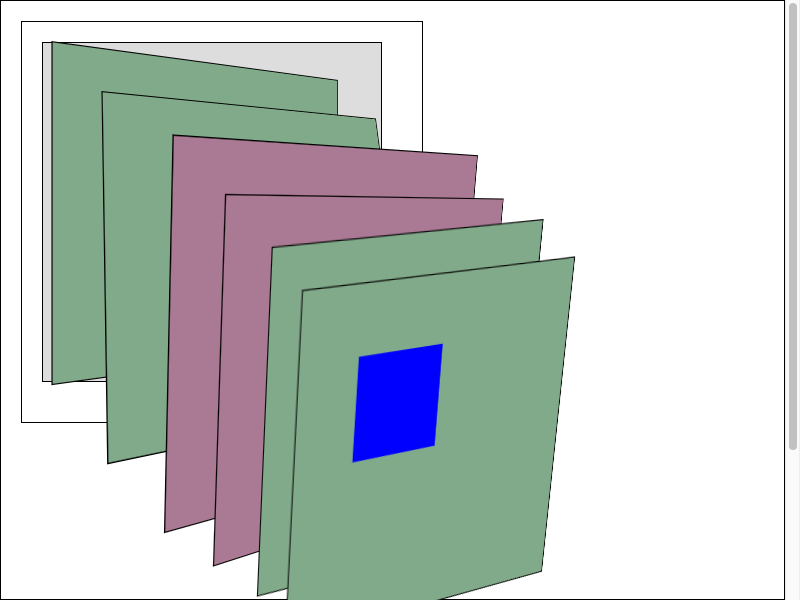
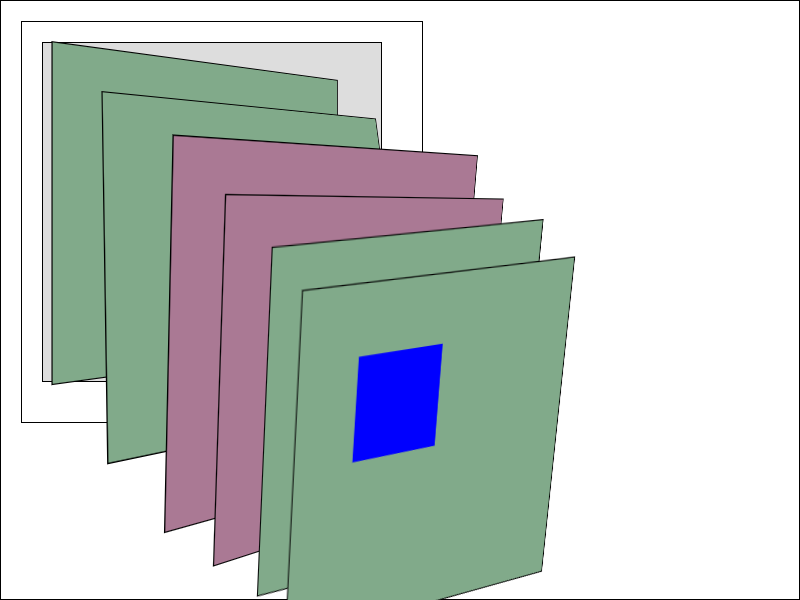
Reland "[Transforms] Hide scrollbars in 3d-point-mapping-deep test"
This reverts commit 1f25c85ec3c21da98cbe2a1174e35b68559868bd.

The original CL was reverted due to mac15-arm64 pixel failures.
On mac15, anti-aliasing was slightly different from other platforms.
This reland restores a mac15-arm64-specific baseline.

Original change's description:
> [Transforms] Hide scrollbars in 3d-point-mapping-deep test
>
> 3d-point-mapping-deep.html verifies point mapping in nested 3D
> transforms. Scrollbar painting was adding platform-dependent pixel noise
> unrelated to the test goal.
>
> Hide scrollbars in the test (overflow: hidden) and merge the
> platform-specific expected images with scrollbars into one generic
> expected image without scrollbars.
>
> Change-Id: I47fab89e25f92fdf518fa2bedec82348c2ff34d3
> Reviewed-on: https://chromium-review.googlesource.com/c/chromium/src/+/7636851
> Reviewed-by: Kent Tamura <tkent@chromium.org>
> Commit-Queue: Hyowon Kim <hyowon@igalia.com>
> Cr-Commit-Position: refs/heads/main@{#1595067}

Commit-Queue: Hyowon Kim <hyowon@igalia.com>
Cr-Commit-Position: refs/heads/main@{#1595204}
NOKEYCHECK=True
GitOrigin-RevId: c90473a81fb5dccdb0ca675818b7aba89b22621c

Changed region(s): [[0.9688, 0.0, 1.0, 0.75], [0.9688, 0.99, 1.0, 1.0]]

diff --git a/blink/web_tests/transforms/3d/point-mapping/3d-point-mapping-deep.html b/blink/web_tests/transforms/3d/point-mapping/3d-point-mapping-deep.html
@@ -37,6 +37,7 @@
       margin: 0;
       border: 1px solid black;
       cursor: crosshair;
+      overflow: hidden;
     }
 
     .test {
